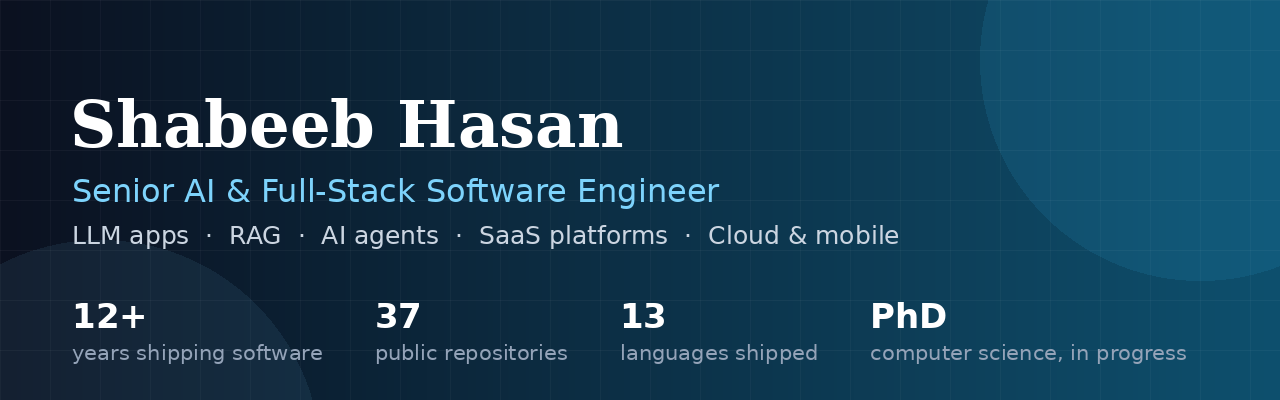
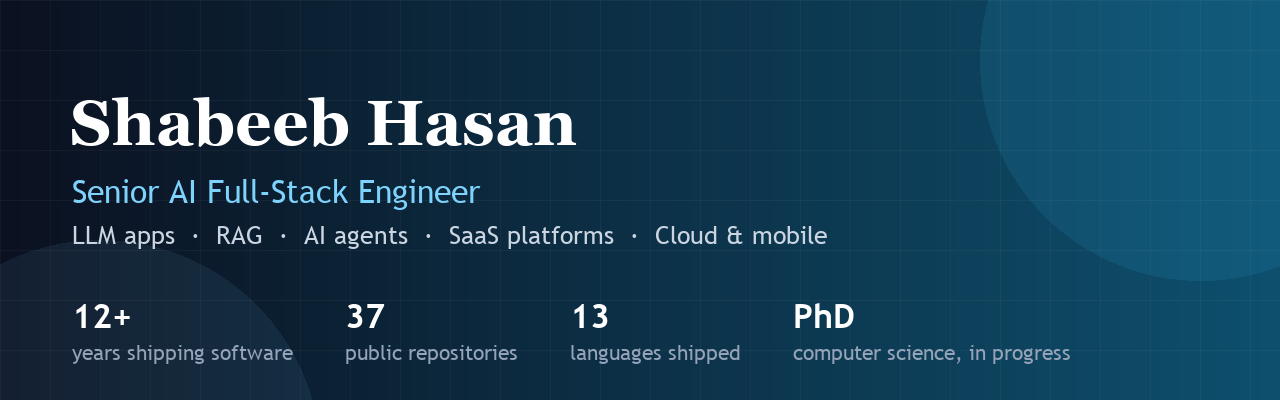
Title: Senior AI Full-Stack Engineer

diff --git a/scripts/make_cards.py b/scripts/make_cards.py
@@ -4,7 +4,7 @@ from PIL import Image, ImageDraw, ImageFont
 
 USER = "shabeebhasan"
 FIRST_LINE = "Shabeeb Hasan"
-ROLE = "Senior AI & Full-Stack Software Engineer"
+ROLE = "Senior AI Full-Stack Engineer"
 FOCUS = "LLM apps  ·  RAG  ·  AI agents  ·  SaaS platforms  ·  Cloud & mobile"
 YEARS_SHIPPING = "12+"
 TOKEN = os.environ.get("GITHUB_TOKEN", "")

diff --git a/README.md b/README.md
@@ -1,4 +1,4 @@
-<img src="assets/banner.png" alt="Shabeeb Hasan, Senior AI and Full-Stack Software Engineer" width="100%">
+<img src="assets/banner.png" alt="Shabeeb Hasan, Senior AI Full-Stack Engineer" width="100%">
 
 <p align="center">
   <a href="https://shabeeb.baydot.net"><img src="https://img.shields.io/badge/Portfolio-shabeeb.baydot.net-0e7490?style=for-the-badge&logo=googlechrome&logoColor=white" alt="Portfolio"></a>
